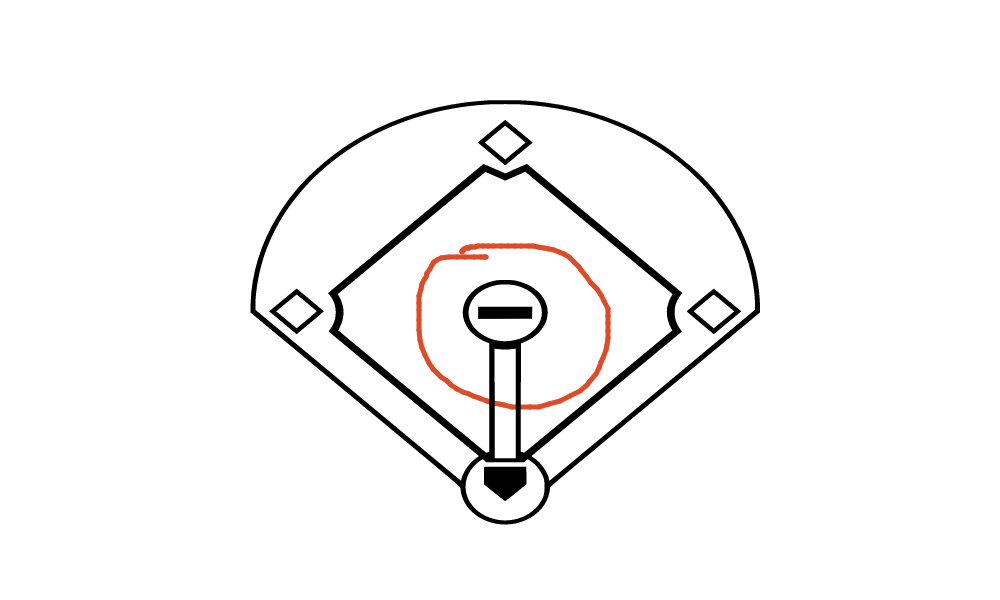
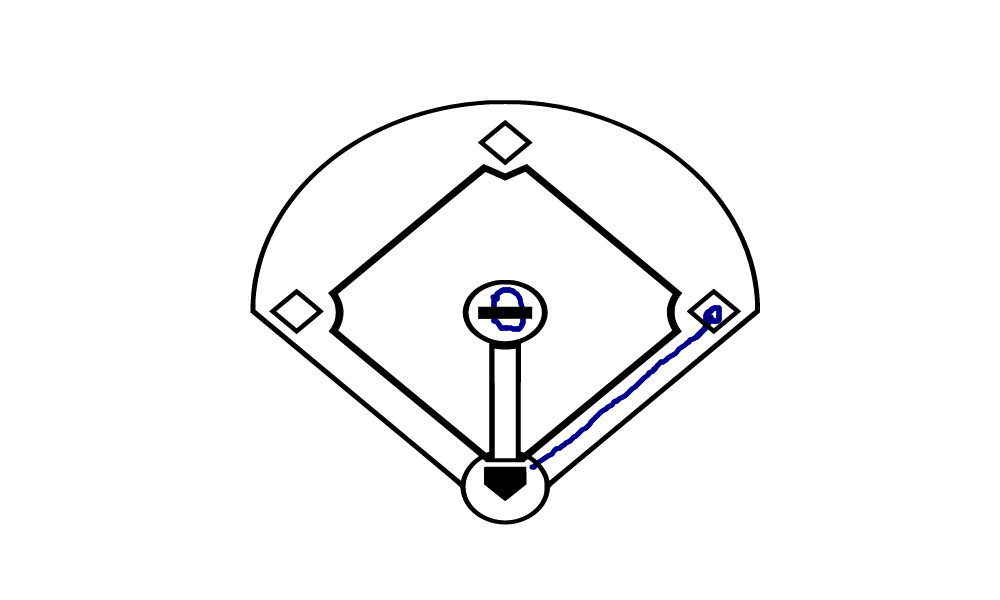
one step away

diff --git a/public/stats.html b/public/stats.html
@@ -40,7 +40,7 @@
 
                 <td>
                     <ol>
-                        <li>8 | 1 |1</li>
+                        <li>Mike | 1 |1</li>
                         <li>8 | 0 |0</li>
                         <li>8 | 0 |0</li>
                         <li>8 | 0 |0</li>
@@ -62,8 +62,8 @@
 <div class="col-sm-4">
     <div align="center">
     <h1>Score</h1>
-    <p>Home: 5</p>
-    <p>Away: 4</p>
+    <p>Home: 1</p>
+    <p>Away: 2</p>
 
 </div>
 </div>
@@ -77,9 +77,9 @@
                 <ol>
                     <li>8 | 0 | 0</li>
                     <li>8 | 0 | 0</li>
-                    <li>8 | 0 | 0</li>
-                    <li>8 | 0 | 0</li>
                     <li>88 | 0 | 0</li>
+                    <li>8 | 0 | 0</li>
+                    <li>8 | 0 | 0</li>
                     <li>8 | 0 | 0</li>
                     <li>8 | 0 | 0</li>
                     <li>8 | 0 | 0</li>
@@ -92,8 +92,8 @@
 
 </div>
 </div>
-<div id="canvasDiv"></div>
-<!--<img src="canvas.png">-->
+<div id="canvas"></div>
+<img src="canvas.png">
 
 <script type="text/javascript"> $(document).ready(function() {
     prepareCanvas();
@@ -106,7 +106,7 @@
     <div class="row">
         <div class="col-sm-4">
             <h2>Pitch Count</h2>
-            <p> Name:Joe 0</p>
+            <p> Name:88 3</p>
 
         </div>
 

diff --git a/src/main/resources/templates/info.html b/src/main/resources/templates/info.html
@@ -102,6 +102,10 @@
 
 <div class="container">
     <form action="/batter" method="post" id="saveCanvasForm">
+        <form class="form-horizontal">
+            <label class="control-label col-sm-2">Result:</label>
+            <div class="form-group">
+                <div class="col-sm-10">
         <select name="result">
             <option value="Single">Single</option>
             <option value="Double">Double</option>
@@ -113,8 +117,14 @@
         </select>
         <input type="hidden" name="updatedCanvas" id="updatedCanvas" value="">
         <button type="button" onclick="updateCanvasValueAndSubmit();"> Next Batter</button>
+                </div>
+            </div>
+    </form>
+
+
     </form>
 </div>
+
 
 <div id="canvasDiv"></div>
 

diff --git a/src/main/resources/templates/home.html b/src/main/resources/templates/home.html
@@ -1,7 +1,7 @@
 <!DOCTYPE html>
 <html lang="en">
 <head>
-    <title>Bootstrap Example</title>
+    <title>Interactive ScoreBook</title>
     <meta charset="utf-8">
     <meta name="viewport" content="width=device-width, initial-scale=1">
     <link rel="stylesheet" href="https://maxcdn.bootstrapcdn.com/bootstrap/3.3.7/css/bootstrap.min.css">
@@ -80,8 +80,9 @@
 
 </div>
 </div>
-<div id="canvasDiv"></div>
-<!--<img src="canvas.png">-->
+<div id="canvasDiv1"></div>
+<img src="canvas.png">
+
 
 <script type="text/javascript"> $(document).ready(function() {
     prepareCanvas();

diff --git a/src/main/resources/templates/scorebook.css b/src/main/resources/templates/scorebook.css
@@ -43,7 +43,7 @@ td{
 }
 li{
 
-    color: black;
+    color: whitesmoke;
 }
 
 div#b {
@@ -62,13 +62,13 @@ div {
 
 
 }
-#canvas{
+#canvasDiv1{
     text-align: center;
 }
 #canvasDiv {
     text-align: center;
 }
-#p01{ float: right;
+p{ color: whitesmoke;
 
 }
 
@@ -94,7 +94,7 @@ h1{
     text-align: center;
     border-bottom: solid;
     border: solid;
-    color: white;
+    color: whitesmoke;
 
 
 }  /*}*/
@@ -106,6 +106,7 @@ h2{
     text-align: center;
     border: solid;
     color: whitesmoke;
+
 
 }
 

diff --git a/src/main/resources/templates/app.js b/src/main/resources/templates/app.js
@@ -66,6 +66,7 @@ function prepareCanvas()
 {
     // Create the canvas (Neccessary for IE because it doesn't know what a canvas element is)
     var canvasDiv = document.getElementById('canvasDiv');
+    var canvasDiv1 = document.getElementById("canvasDiv1");
     canvas = document.createElement('canvas');
     canvas.setAttribute('width', canvasWidth);
     canvas.setAttribute('height', canvasHeight);

diff --git a/public/app.js b/public/app.js
@@ -188,7 +188,7 @@ function updateCanvasValueAndSubmit() {
 
 function redraw(){
     context.clearRect(0, 0, context.canvas.width, context.canvas.height); // Clears the canvas
-    context.strokeStyle = "#df4b26";
+    context.strokeStyle = "#00008B";
     context.lineJoin = "round";
     context.lineWidth = 5;
 
